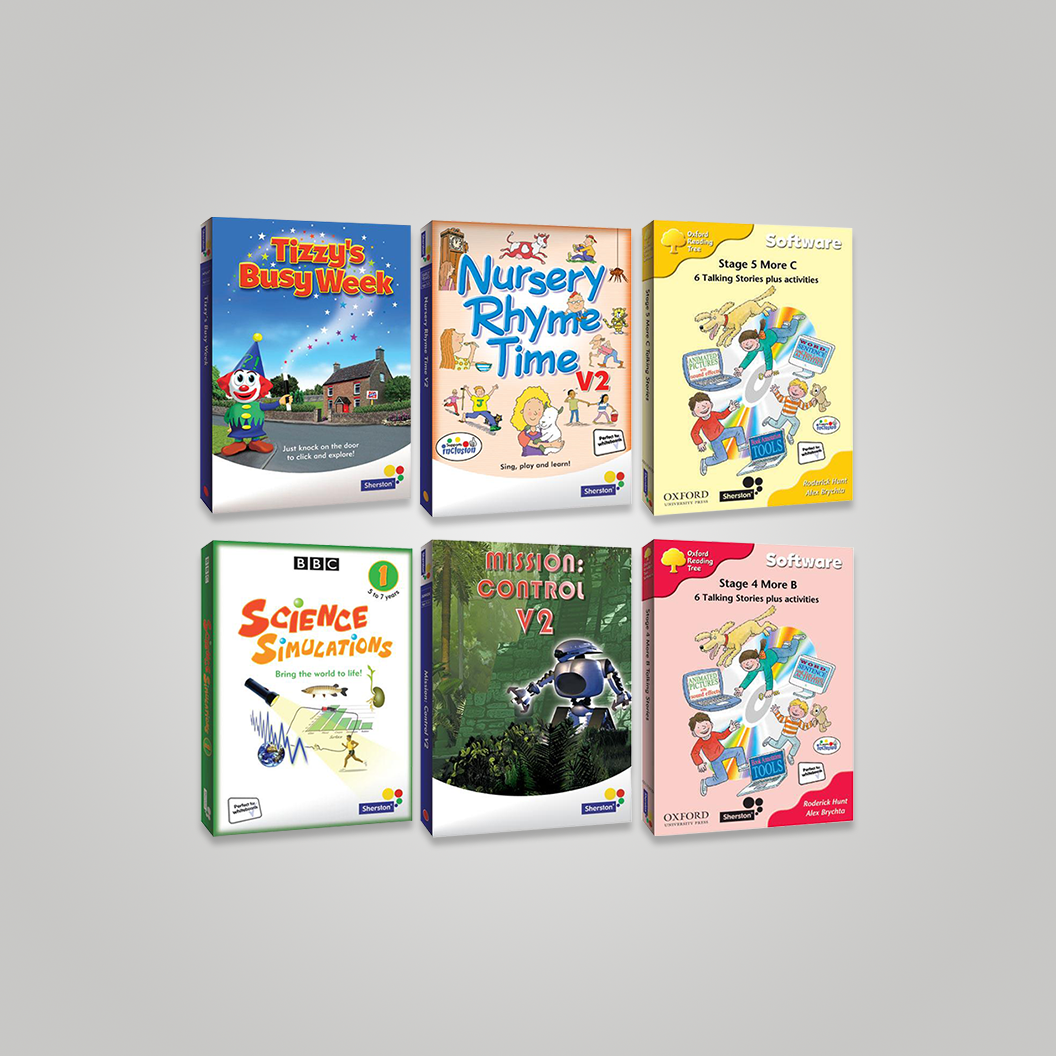
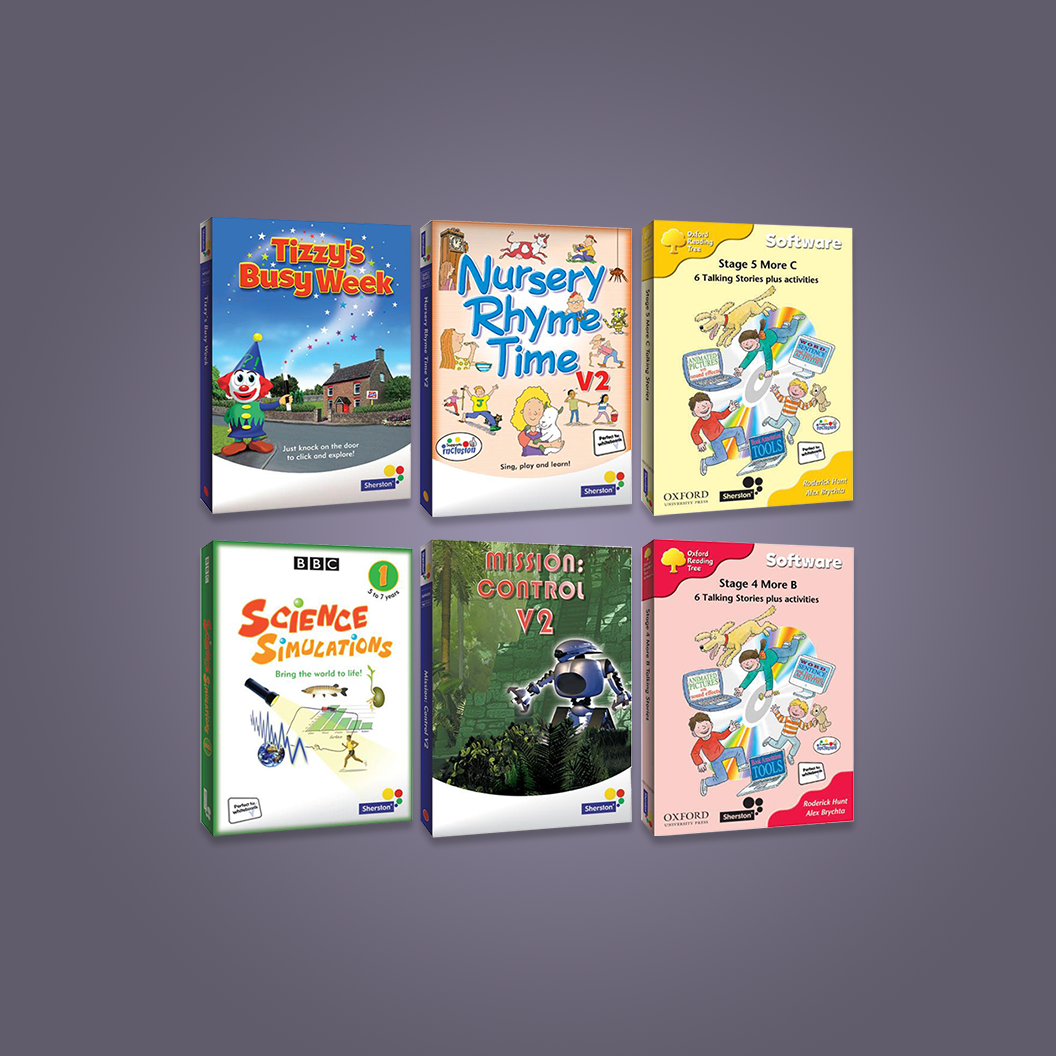
Ambient hero bg and new thumbnails

diff --git a/src/hero/noise.min.js b/src/hero/noise.min.js
@@ -1,0 +1,1 @@
+!function(){"use strict";var r=.5*(Math.sqrt(3)-1),e=(3-Math.sqrt(3))/6,t=1/6,a=(Math.sqrt(5)-1)/4,o=(5-Math.sqrt(5))/20;function i(r){var e;e="function"==typeof r?r:r?function(){var r=0,e=0,t=0,a=1,o=(i=4022871197,function(r){r=r.toString();for(var e=0;e<r.length;e++){var t=.02519603282416938*(i+=r.charCodeAt(e));t-=i=t>>>0,i=(t*=i)>>>0,i+=4294967296*(t-=i)}return 2.3283064365386963e-10*(i>>>0)});var i;r=o(" "),e=o(" "),t=o(" ");for(var n=0;n<arguments.length;n++)(r-=o(arguments[n]))<0&&(r+=1),(e-=o(arguments[n]))<0&&(e+=1),(t-=o(arguments[n]))<0&&(t+=1);return o=null,function(){var o=2091639*r+2.3283064365386963e-10*a;return r=e,e=t,t=o-(a=0|o)}}(r):Math.random,this.p=n(e),this.perm=new Uint8Array(512),this.permMod12=new Uint8Array(512);for(var t=0;t<512;t++)this.perm[t]=this.p[255&t],this.permMod12[t]=this.perm[t]%12}function n(r){var e,t=new Uint8Array(256);for(e=0;e<256;e++)t[e]=e;for(e=0;e<255;e++){var a=e+~~(r()*(256-e)),o=t[e];t[e]=t[a],t[a]=o}return t}i.prototype={grad3:new Float32Array([1,1,0,-1,1,0,1,-1,0,-1,-1,0,1,0,1,-1,0,1,1,0,-1,-1,0,-1,0,1,1,0,-1,1,0,1,-1,0,-1,-1]),grad4:new Float32Array([0,1,1,1,0,1,1,-1,0,1,-1,1,0,1,-1,-1,0,-1,1,1,0,-1,1,-1,0,-1,-1,1,0,-1,-1,-1,1,0,1,1,1,0,1,-1,1,0,-1,1,1,0,-1,-1,-1,0,1,1,-1,0,1,-1,-1,0,-1,1,-1,0,-1,-1,1,1,0,1,1,1,0,-1,1,-1,0,1,1,-1,0,-1,-1,1,0,1,-1,1,0,-1,-1,-1,0,1,-1,-1,0,-1,1,1,1,0,1,1,-1,0,1,-1,1,0,1,-1,-1,0,-1,1,1,0,-1,1,-1,0,-1,-1,1,0,-1,-1,-1,0]),noise2D:function(t,a){var o,i,n=this.permMod12,f=this.perm,s=this.grad3,v=0,h=0,l=0,u=(t+a)*r,d=Math.floor(t+u),p=Math.floor(a+u),M=(d+p)*e,m=t-(d-M),c=a-(p-M);m>c?(o=1,i=0):(o=0,i=1);var y=m-o+e,w=c-i+e,g=m-1+2*e,A=c-1+2*e,x=255&d,q=255&p,D=.5-m*m-c*c;if(D>=0){var S=3*n[x+f[q]];v=(D*=D)*D*(s[S]*m+s[S+1]*c)}var U=.5-y*y-w*w;if(U>=0){var b=3*n[x+o+f[q+i]];h=(U*=U)*U*(s[b]*y+s[b+1]*w)}var F=.5-g*g-A*A;if(F>=0){var N=3*n[x+1+f[q+1]];l=(F*=F)*F*(s[N]*g+s[N+1]*A)}return 70*(v+h+l)},noise3D:function(r,e,a){var o,i,n,f,s,v,h,l,u,d,p=this.permMod12,M=this.perm,m=this.grad3,c=(r+e+a)*(1/3),y=Math.floor(r+c),w=Math.floor(e+c),g=Math.floor(a+c),A=(y+w+g)*t,x=r-(y-A),q=e-(w-A),D=a-(g-A);x>=q?q>=D?(s=1,v=0,h=0,l=1,u=1,d=0):x>=D?(s=1,v=0,h=0,l=1,u=0,d=1):(s=0,v=0,h=1,l=1,u=0,d=1):q<D?(s=0,v=0,h=1,l=0,u=1,d=1):x<D?(s=0,v=1,h=0,l=0,u=1,d=1):(s=0,v=1,h=0,l=1,u=1,d=0);var S=x-s+t,U=q-v+t,b=D-h+t,F=x-l+2*t,N=q-u+2*t,C=D-d+2*t,P=x-1+.5,T=q-1+.5,_=D-1+.5,j=255&y,k=255&w,z=255&g,B=.6-x*x-q*q-D*D;if(B<0)o=0;else{var E=3*p[j+M[k+M[z]]];o=(B*=B)*B*(m[E]*x+m[E+1]*q+m[E+2]*D)}var G=.6-S*S-U*U-b*b;if(G<0)i=0;else{var H=3*p[j+s+M[k+v+M[z+h]]];i=(G*=G)*G*(m[H]*S+m[H+1]*U+m[H+2]*b)}var I=.6-F*F-N*N-C*C;if(I<0)n=0;else{var J=3*p[j+l+M[k+u+M[z+d]]];n=(I*=I)*I*(m[J]*F+m[J+1]*N+m[J+2]*C)}var K=.6-P*P-T*T-_*_;if(K<0)f=0;else{var L=3*p[j+1+M[k+1+M[z+1]]];f=(K*=K)*K*(m[L]*P+m[L+1]*T+m[L+2]*_)}return 32*(o+i+n+f)},noise4D:function(r,e,t,i){var n,f,s,v,h,l,u,d,p,M,m,c,y,w,g,A,x,q=this.perm,D=this.grad4,S=(r+e+t+i)*a,U=Math.floor(r+S),b=Math.floor(e+S),F=Math.floor(t+S),N=Math.floor(i+S),C=(U+b+F+N)*o,P=r-(U-C),T=e-(b-C),_=t-(F-C),j=i-(N-C),k=0,z=0,B=0,E=0;P>T?k++:z++,P>_?k++:B++,P>j?k++:E++,T>_?z++:B++,T>j?z++:E++,_>j?B++:E++;var G=P-(l=k>=3?1:0)+o,H=T-(u=z>=3?1:0)+o,I=_-(d=B>=3?1:0)+o,J=j-(p=E>=3?1:0)+o,K=P-(M=k>=2?1:0)+2*o,L=T-(m=z>=2?1:0)+2*o,O=_-(c=B>=2?1:0)+2*o,Q=j-(y=E>=2?1:0)+2*o,R=P-(w=k>=1?1:0)+3*o,V=T-(g=z>=1?1:0)+3*o,W=_-(A=B>=1?1:0)+3*o,X=j-(x=E>=1?1:0)+3*o,Y=P-1+4*o,Z=T-1+4*o,$=_-1+4*o,rr=j-1+4*o,er=255&U,tr=255&b,ar=255&F,or=255&N,ir=.6-P*P-T*T-_*_-j*j;if(ir<0)n=0;else{var nr=q[er+q[tr+q[ar+q[or]]]]%32*4;n=(ir*=ir)*ir*(D[nr]*P+D[nr+1]*T+D[nr+2]*_+D[nr+3]*j)}var fr=.6-G*G-H*H-I*I-J*J;if(fr<0)f=0;else{var sr=q[er+l+q[tr+u+q[ar+d+q[or+p]]]]%32*4;f=(fr*=fr)*fr*(D[sr]*G+D[sr+1]*H+D[sr+2]*I+D[sr+3]*J)}var vr=.6-K*K-L*L-O*O-Q*Q;if(vr<0)s=0;else{var hr=q[er+M+q[tr+m+q[ar+c+q[or+y]]]]%32*4;s=(vr*=vr)*vr*(D[hr]*K+D[hr+1]*L+D[hr+2]*O+D[hr+3]*Q)}var lr=.6-R*R-V*V-W*W-X*X;if(lr<0)v=0;else{var ur=q[er+w+q[tr+g+q[ar+A+q[or+x]]]]%32*4;v=(lr*=lr)*lr*(D[ur]*R+D[ur+1]*V+D[ur+2]*W+D[ur+3]*X)}var dr=.6-Y*Y-Z*Z-$*$-rr*rr;if(dr<0)h=0;else{var pr=q[er+1+q[tr+1+q[ar+1+q[or+1]]]]%32*4;h=(dr*=dr)*dr*(D[pr]*Y+D[pr+1]*Z+D[pr+2]*$+D[pr+3]*rr)}return 27*(n+f+s+v+h)}},i._buildPermutationTable=n,"undefined"!=typeof define&&define.amd&&define(function(){return i}),"undefined"!=typeof exports?exports.SimplexNoise=i:"undefined"!=typeof window&&(window.SimplexNoise=i),"undefined"!=typeof module&&(module.exports=i)}();

diff --git a/src/hero/shift.js b/src/hero/shift.js
@@ -1,0 +1,187 @@
+'use strict';
+import SimplexNoise from "simplex-noise";
+
+const { PI, cos, sin, abs, sqrt, pow, round, random, atan2 } = Math;
+const HALF_PI = 0.5 * PI;
+const TAU = 2 * PI;
+const TO_RAD = PI / 180;
+const floor = n => n | 0;
+const rand = n => n * random();
+const randIn = (min, max) => rand(max - min) + min;
+const randRange = n => n - rand(2 * n);
+const fadeIn = (t, m) => t / m;
+const fadeOut = (t, m) => (m - t) / m;
+const fadeInOut = (t, m) => {
+	let hm = 0.5 * m;
+	return abs((t + hm) % m - hm) / (hm);
+};
+const dist = (x1, y1, x2, y2) => sqrt(pow(x2 - x1, 2) + pow(y2 - y1, 2));
+const angle = (x1, y1, x2, y2) => atan2(y2 - y1, x2 - x1);
+const lerp = (n1, n2, speed) => (1 - speed) * n1 + speed * n2;
+
+
+const circleCount = 15;
+const circlePropCount = 8;
+const circlePropsLength = circleCount * circlePropCount;
+const baseSpeed = 0.1;
+const rangeSpeed = 1;
+const baseTTL = 150;
+const rangeTTL = 200;
+const baseRadius = 100;
+const rangeRadius = 200;
+const rangeHue = 60;
+const xOff = 0.0015;
+const yOff = 0.0015;
+const zOff = 0.0015;
+const backgroundColor = 'hsla(0,0%,5%,1)';
+
+let container;
+let canvas;
+let ctx;
+let circles;
+let circleProps;
+let simplex;
+let baseHue;
+
+function setup() {
+	createCanvas();
+  resize();
+  initCircles();
+	draw();
+}
+
+function initCircles() {
+  circleProps = new Float32Array(circlePropsLength);
+  simplex = new SimplexNoise();
+  baseHue = 220;
+
+  let i;
+
+  for (i = 0; i < circlePropsLength; i += circlePropCount) {
+    initCircle(i);
+  }
+}
+
+function initCircle(i) {
+  let x, y, n, t, speed, vx, vy, life, ttl, radius, hue;
+
+  x = rand(canvas.a.width);
+  y = rand(canvas.a.height);
+  n = simplex.noise3D(x * xOff, y * yOff, baseHue * zOff);
+  t = rand(TAU);
+  speed = baseSpeed + rand(rangeSpeed);
+  vx = speed * cos(t);
+  vy = speed * sin(t);
+  life = 0;
+  ttl = baseTTL + rand(rangeTTL);
+  radius = baseRadius + rand(rangeRadius);
+  hue = baseHue + n * rangeHue;
+
+  circleProps.set([x, y, vx, vy, life, ttl, radius, hue], i);
+}
+
+function updateCircles() {
+  let i;
+
+  baseHue++;
+
+  for (i = 0; i < circlePropsLength; i += circlePropCount) {
+    updateCircle(i);
+  }
+}
+
+function updateCircle(i) {
+  let i2=1+i, i3=2+i, i4=3+i, i5=4+i, i6=5+i, i7=6+i, i8=7+i;
+  let x, y, vx, vy, life, ttl, radius, hue;
+
+  x = circleProps[i];
+  y = circleProps[i2];
+  vx = circleProps[i3];
+  vy = circleProps[i4];
+  life = circleProps[i5];
+  ttl = circleProps[i6];
+  radius = circleProps[i7];
+  hue = circleProps[i8];
+
+  drawCircle(x, y, life, ttl, radius, hue);
+
+  life++;
+
+  circleProps[i] = x + vx;
+  circleProps[i2] = y + vy;
+  circleProps[i5] = life;
+
+  (checkBounds(x, y, radius) || life > ttl) && initCircle(i);
+}
+
+function drawCircle(x, y, life, ttl, radius, hue) {
+  ctx.a.save();
+  ctx.a.fillStyle = `hsla(${hue},60%,30%,${fadeInOut(life,ttl)})`;
+  ctx.a.beginPath();
+  ctx.a.arc(x,y, radius, 0, TAU);
+  ctx.a.fill();
+  ctx.a.closePath();
+  ctx.a.restore();
+}
+
+function checkBounds(x, y, radius) {
+  return (
+    x < -radius ||
+    x > canvas.a.width + radius ||
+    y < -radius ||
+    y > canvas.a.height + radius
+  );
+}
+
+function createCanvas() {
+  container = document.querySelector('.content--canvas');
+	canvas = {
+		a: document.createElement('canvas'),
+		b: document.createElement('canvas')
+	};
+	canvas.b.style = `
+		position: fixed;
+		top: 0;
+		left: 0;
+		width: 100%;
+		height: 100%;
+	`;
+	container.appendChild(canvas.b);
+	ctx = {
+		a: canvas.a.getContext('2d'),
+		b: canvas.b.getContext('2d')
+	};
+}
+
+function resize() {
+	const { innerWidth, innerHeight } = window;
+	
+	canvas.a.width = innerWidth;
+  canvas.a.height = innerHeight;
+
+  ctx.a.drawImage(canvas.b, 0, 0);
+
+	canvas.b.width = innerWidth;
+  canvas.b.height = innerHeight;
+  
+  ctx.b.drawImage(canvas.a, 0, 0);
+}
+
+function render() {
+  ctx.b.save();
+  ctx.b.filter = 'blur(50px)';
+  ctx.b.drawImage(canvas.a, 0, 0);
+  ctx.b.restore();
+}
+
+function draw() {
+  ctx.a.clearRect(0, 0, canvas.a.width, canvas.a.height);
+  ctx.b.fillStyle = backgroundColor;
+  ctx.b.fillRect(0, 0, canvas.b.width, canvas.b.height);
+  updateCircles();
+  render();
+	window.requestAnimationFrame(draw);
+}
+
+window.addEventListener('load', setup);
+window.addEventListener('resize', resize);

diff --git a/src/Home.js b/src/Home.js
@@ -5,6 +5,7 @@ import Tile from './tile';
 import Nav from './nav';
 import { CSSTransitionGroup } from 'react-transition-group';
 // import threeEntryPoint from "./hero/threeEntryPoint"
+import shift from "./hero/shift";
 import scrollToComponent from 'react-scroll-to-component';
 
 const styles = theme => {
@@ -118,7 +119,8 @@ class Home extends Component {
                 <Typography variant="body1" className={classes.heroText2}>Web Developer based in Bristol</Typography>
                 <Button className={classes.viewButton} onClick={this.scrollToWork}>View My Work</Button>
               </div>
-              <div ref={element => this.threeRootElement = element} className={classes.threeDiv} />
+              {/* <div ref={element => this.threeRootElement = element} className={classes.threeDiv} /> */}
+              <div className="content content--canvas"></div>
             </section>
             <Nav isFixed={this.state.navFixed} isHome={true} />
             <section>

diff --git a/src/nav.js b/src/nav.js
@@ -53,6 +53,7 @@ const styles = theme => {
       borderRadius: 0,
       color: '#ffffff',
       fontWeight: 700,
+      backgroundColor: '#10171E',
       '&:hover':{
         backgroundColor: '#253C45',
         color: '#ffffff',
